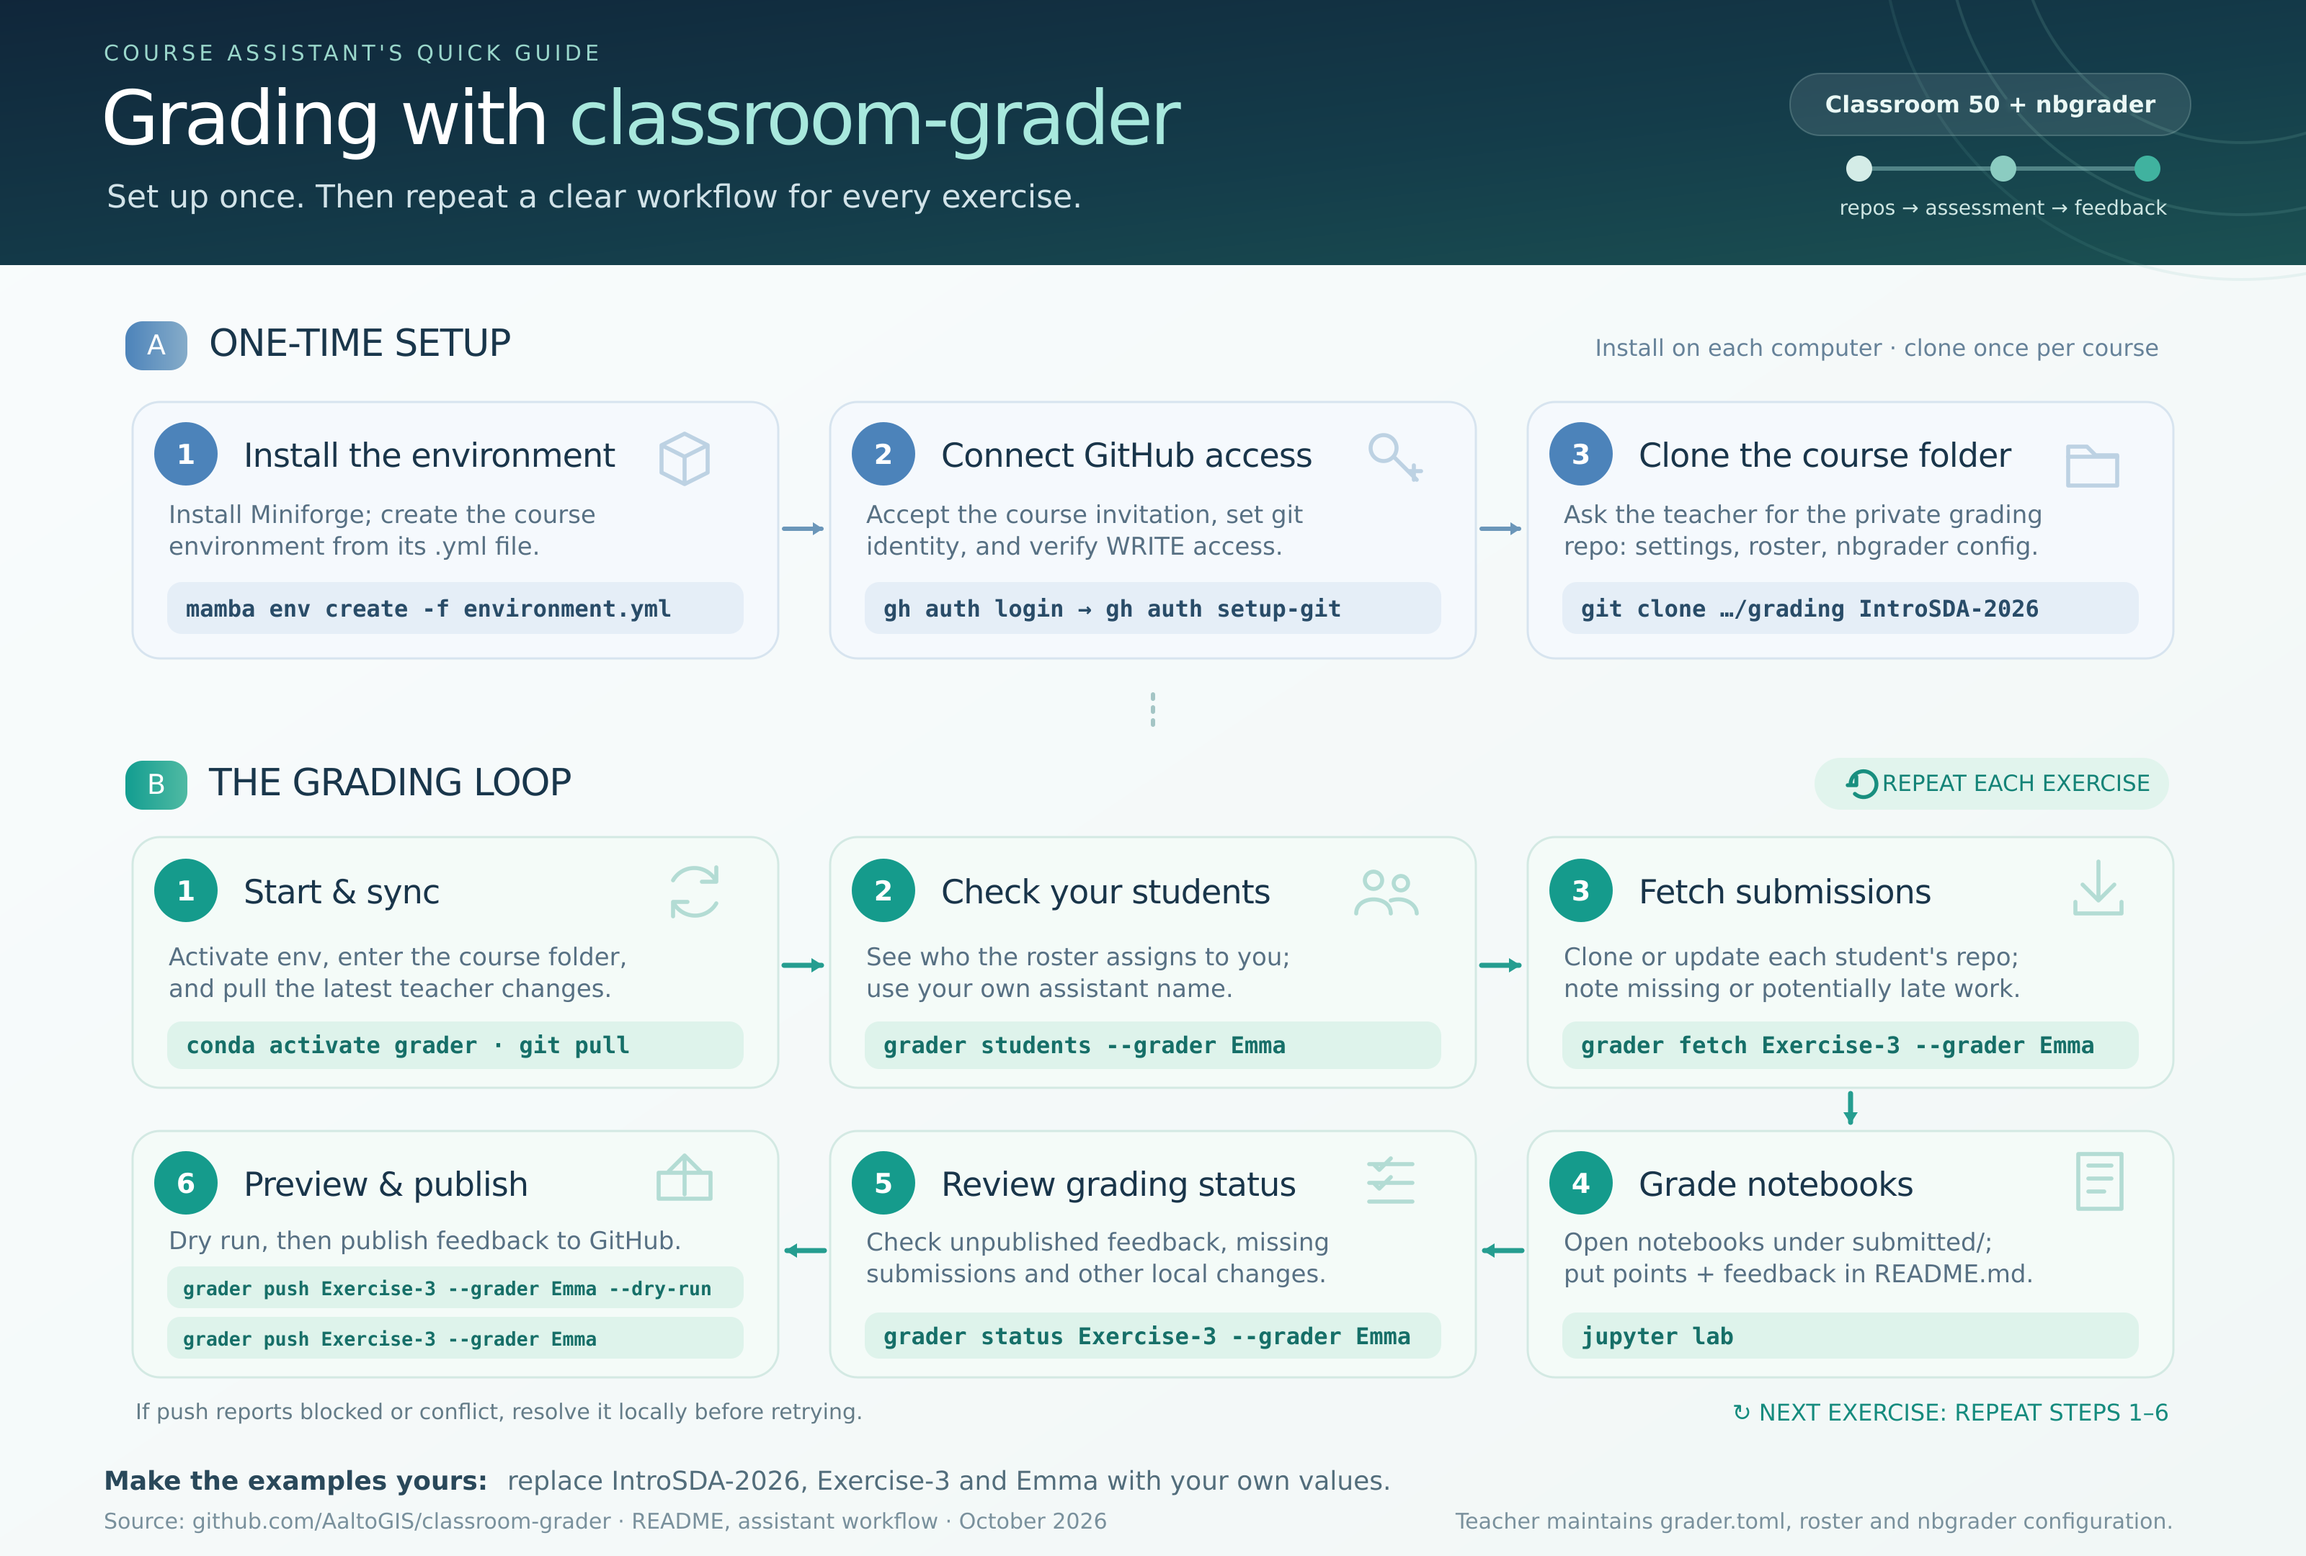
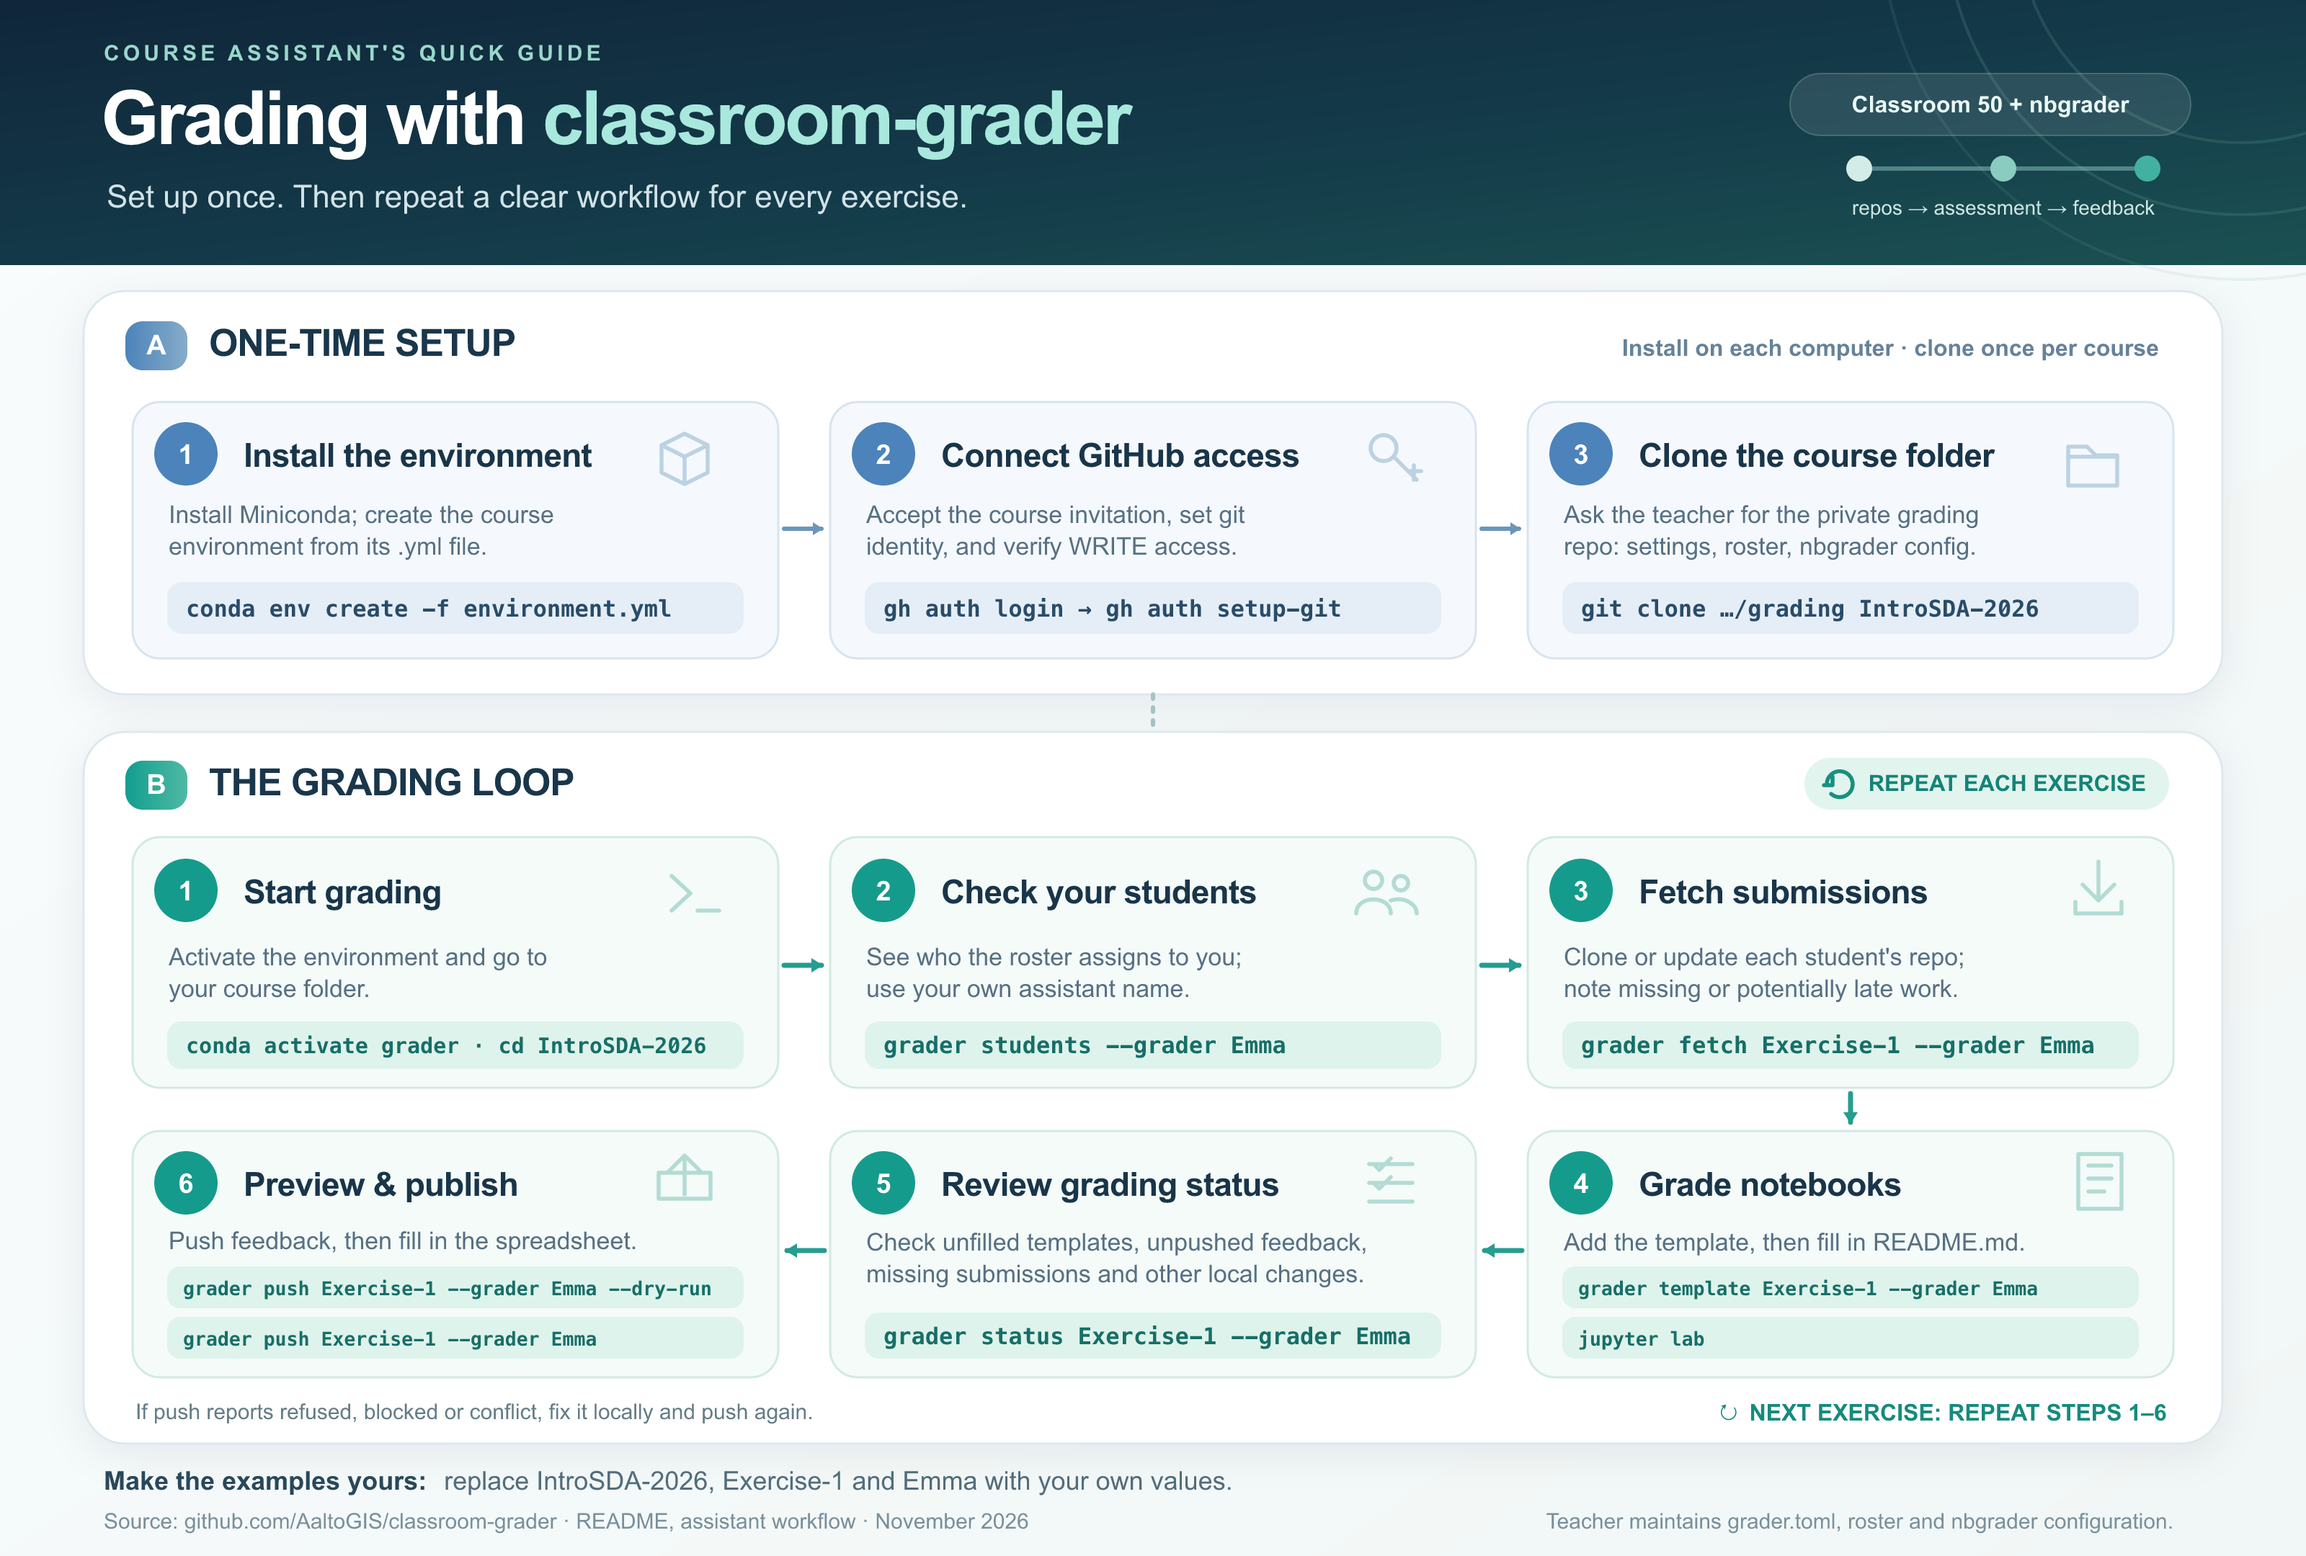
Redraw the workflow picture from an SVG source

diff --git a/README.md b/README.md
@@ -8,7 +8,7 @@ has reached GitHub, and commits and pushes the feedback.
 This guide is for course assistants. Teachers set up a course as described
 in [Setting up a course](docs/setting-up-a-course.md).
 
-![The grading workflow. One-time setup: install the environment, connect GitHub access, clone the course folder. The grading loop, repeated for each exercise: start and sync, check your students, fetch submissions, grade notebooks, review grading status, preview and publish the feedback.](img/classroom-grader-workflow.png)
+![The grading workflow. One-time setup: install the environment, connect GitHub access, clone the course folder. The grading loop, repeated for each exercise: start grading, check your students, fetch submissions, grade notebooks, review grading status, preview and publish the feedback, then fill in the grading spreadsheet.](img/classroom-grader-workflow.png)
 
 The sections below go through these steps one by one.
 
@@ -292,7 +292,7 @@ time (default 8).
 ## Windows notes
 
 - Run the commands in the Anaconda Prompt, after `conda activate grader`.
-- Paths may use backslashes: `grader fetch Exercise-3 --course C:\Courses\IntroSDA-2026`.
+- Paths may use backslashes: `grader fetch Exercise-1 --course C:\Courses\IntroSDA-2026`.
 
 ## Questions and answers
 

diff --git a/docs/development.md b/docs/development.md
@@ -50,3 +50,16 @@ nbgrader on PATH, only the `grader source` step is. At the start, the test
 prints the name that all of the run's repositories start with. If a run
 stops before it deletes them, delete the repositories with that name in the
 test organization by hand.
+
+## The workflow picture
+
+The picture at the top of the README, `img/classroom-grader-workflow.png`, is
+drawn from `img/classroom-grader-workflow.svg`. After changing the SVG, render
+it at twice its size (3200 × 2160 pixels) with resvg:
+
+```
+uv run --no-project --with resvg-py python -c "import resvg_py, pathlib; pathlib.Path('img/classroom-grader-workflow.png').write_bytes(bytes(resvg_py.svg_to_bytes(svg_path='img/classroom-grader-workflow.svg', zoom=2)))"
+```
+
+The text takes its fonts from the computer that renders it, so check the
+result, for example that each code line fits its box.
